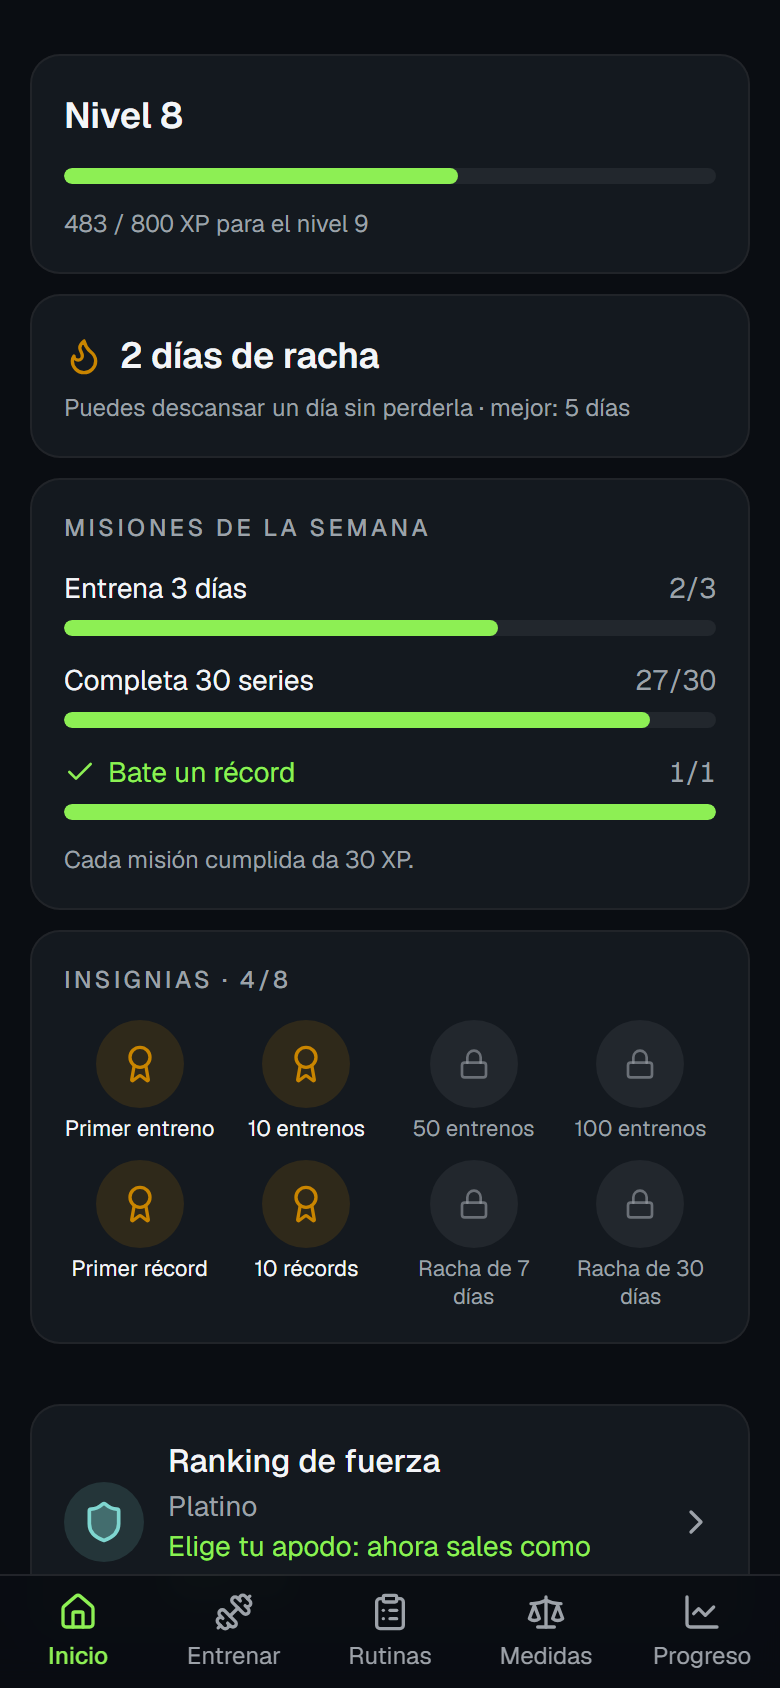
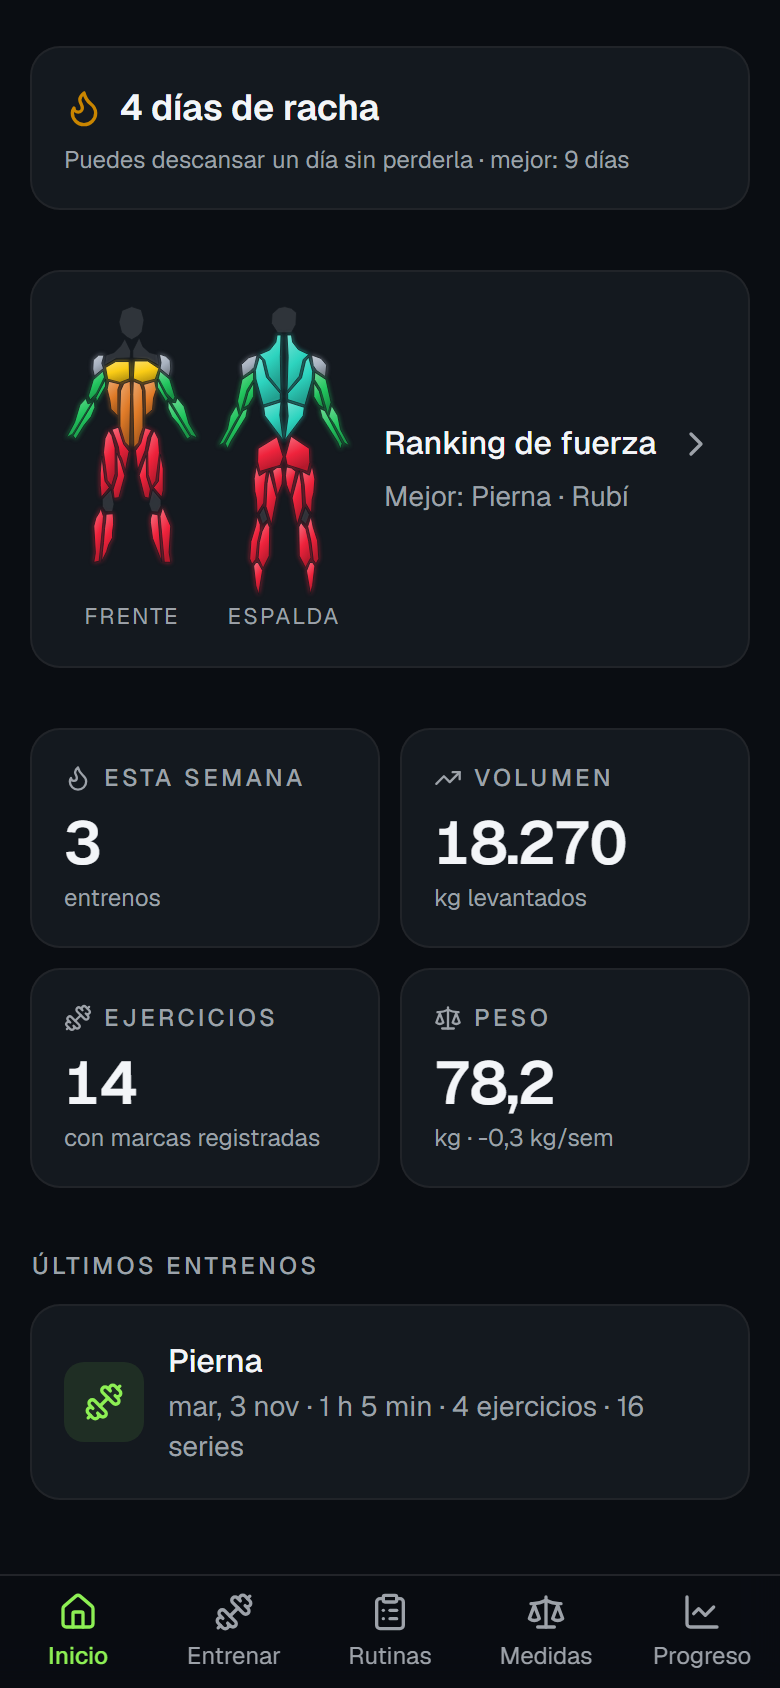
docs: refresh the README screenshots of home, ranking and workout
Home shows the streak and the body coloured by tier instead of levels,
missions and badges; the ranking shows the body per zone; the workout
shows the set beating last time.

diff --git a/README.md b/README.md
@@ -10,12 +10,12 @@ change routines, exercises or intensity.
 account with 12 weeks of simulated training. No sign-up needed.
 
 <p align="center">
-  <img src="docs/screenshots/home.png" width="250" alt="Home: training streak and strength ranking">
+  <img src="docs/screenshots/home.png" width="250" alt="Home: training streak and the strength ranking painted on the body">
   <img src="docs/screenshots/plan.png" width="250" alt="Today's plan: what to do with each exercise of the routine and why">
-  <img src="docs/screenshots/workout.png" width="250" alt="Live workout: one exercise per card, big buttons for weight and reps">
+  <img src="docs/screenshots/workout.png" width="250" alt="Live workout: big buttons for weight and reps, and whether the set beats last time">
 </p>
 <p align="center">
-  <img src="docs/screenshots/ranking.png" width="250" alt="Strength ranking: tiers from Bronze to Master, without showing any weights">
+  <img src="docs/screenshots/ranking.png" width="250" alt="Strength ranking: the body coloured by tier per zone, from Bronze to Master, without showing any weights">
   <img src="docs/screenshots/progress.png" width="250" alt="Progress: activity and the recommendation for the next session">
   <img src="docs/screenshots/picker.png" width="250" alt="Exercise picker with drawings, search, filters and recent exercises">
 </p>
